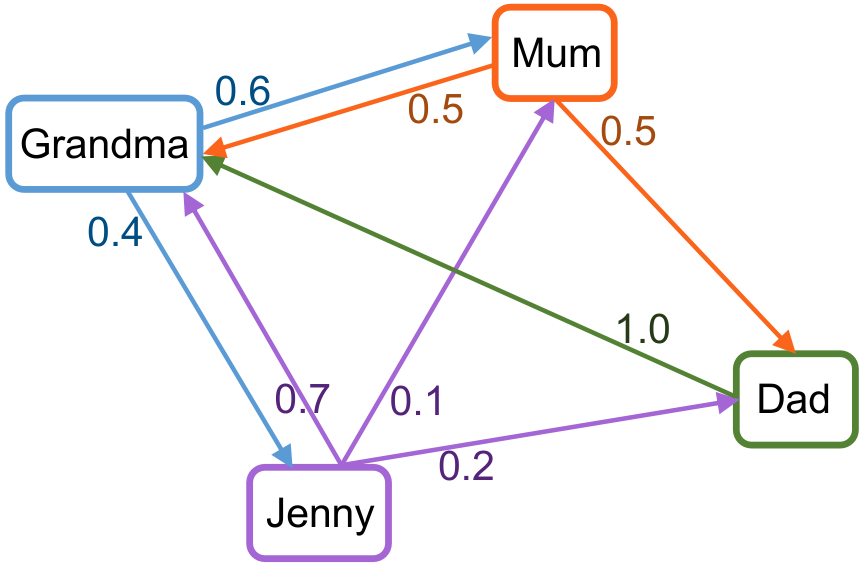
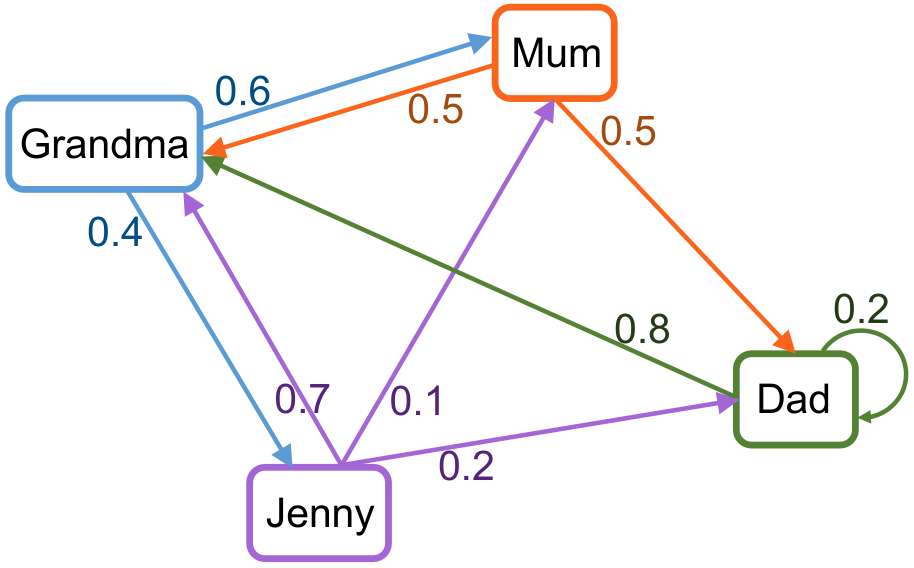
bakery example

Changed region(s): [[0.0, 0.0, 1.0, 0.9877], [0.7833, 0.4489, 0.8737, 0.5687], [0.0, 0.2993, 0.0301, 0.3292]]

diff --git a/docs/posts/202505_hidden_markov/index.html b/docs/posts/202505_hidden_markov/index.html
@@ -181,10 +181,21 @@ window.Quarto = {
 <p>Let’s use a simple example to make these abstract descriptions to life.</p>
 <p>Suppose that there is a family bakery in your neighborhood. Each day you pass by the bakery and on some days, the bakery sells delicious special cookies. Since you absolutely don’t want to miss these treats, you take notes everyday about whether the cookies are being sold on that day.</p>
 <p>Therefore, you have from day 1 to day <span class="math inline">\(\tau\)</span> a series of numbers: <span class="math display">\[0, 1, 0, 0, 1, 1, ..., 0\]</span>, where <span class="math inline">\(0\)</span> means the corresponding day there was no cookie and <span class="math inline">\(1\)</span> means the there were cookies sold.</p>
-<p>Let’s denote the value in this series on day <span class="math inline">\(t\)</span> as <span class="math inline">\(X_t\)</span>. Hence, <span class="math inline">\(X_t\)</span> is our observation on day <span class="math inline">\(t\)</span>.</p>
-<p>But what determines whether cookies is sold? This is hidden behind the counter for a cookie-loving customer. Apparently, the family who runs the bakery take turns to bake on each day. The family member do the baking is determined by the following graph: Who bakes today is determined by a transition graph:</p>
-<p>Insert a png <img src="./images/family_graph.png" class="img-fluid" alt="Graph for transition of baking position"></p>
-<p>The nodes in the graph represent each family member. The weights on the edges represent the possibility of transition from one person to another. For example</p>
+<p>Let’s denote the value in this series on day <span class="math inline">\(t\)</span> as <span class="math inline">\(X_t\)</span>. Hence, <span class="math inline">\(X_t\)</span> is our <strong>observation</strong> on day <span class="math inline">\(t\)</span>.</p>
+<p>But what determines whether cookies is sold? This is hidden behind the counter for a cookie-loving customer. Apparently, the family in the bakery take turns to be the chief baker on each day.</p>
+<p>The family members include Jenny, her grandma, her mom and her dad. Whoever was the chief baker the day before decides who takes the chief position the current day.</p>
+<p>The rule of transition is determined by the following graph:</p>
+<div class="cell">
+<div class="quarto-figure quarto-figure-center">
+<figure class="figure">
+<p><img src="./images/family_graph.png" class="img-fluid figure-img" style="width:60.0%"></p>
+<figcaption>Graph for transition of baking position</figcaption>
+</figure>
+</div>
+</div>
+<p>The nodes in the graph represent each family member. The weights on the edges represent the possibility of transition from one person to another. For example, if Grandma was the chief baker on day <span class="math inline">\(t-1\)</span>, then on day <span class="math inline">\(t\)</span>, there will be 0.6 chance that Mum is the chief baker and 0.4 chance Jenney will be the chief baker.</p>
+<p>With this rule, it is possible to have a sequence of the chief bakers from day 1 to day <span class="math inline">\(\tau\)</span> as follows: <span class="math display">\[Mum, Grandma, Jenny, Dad, Dad, Grandma, ..., Jenny\]</span>. Let’s denote the chief baker on day <span class="math inline">\(t\)</span> as <span class="math inline">\(S_t\)</span>. We can call <span class="math inline">\(S_t\)</span> the <strong>hidden state</strong> of the bakery on day <span class="math inline">\(t\)</span>.</p>
+<p>Now we modeled how the hidden state transitions as a Markov chain. The last thing we need is to model how the hidden state <span class="math inline">\(S_t\)</span>, i.e.&nbsp;the chief baker, decides on the observable <span class="math inline">\(X_t\)</span>, i.e.&nbsp;whether there will be cookies baked.</p>
 
 
 

diff --git a/docs/posts/index.html b/docs/posts/index.html
@@ -200,10 +200,10 @@ window.Quarto = {
 
 <div class="quarto-listing quarto-listing-container-default" id="listing-listing">
 <div class="list quarto-listing-default">
-<div class="quarto-post image-right" data-index="0" data-categories="bW9kZWxpbmc=" data-listing-date-sort="1747519200000" data-listing-file-modified-sort="1748198015374" data-listing-date-modified-sort="NaN" data-listing-reading-time-sort="3" data-listing-word-count-sort="409">
+<div class="quarto-post image-right" data-index="0" data-categories="bW9kZWxpbmc=" data-listing-date-sort="1747519200000" data-listing-file-modified-sort="1748199126897" data-listing-date-modified-sort="NaN" data-listing-reading-time-sort="3" data-listing-word-count-sort="412">
 <div class="thumbnail"><a href="../posts/202505_hidden_markov/index.html" class="no-external">
 
-<p class="card-img-top"><img src="202505_hidden_markov/images/family_graph.png" alt="Graph for transition of baking position"  class="thumbnail-image card-img"/></p>
+<p class="card-img-top"><img src="202505_hidden_markov/images/family_graph.png"  class="thumbnail-image card-img"/></p>
 
 </a></div>
 <div class="body">
@@ -216,28 +216,6 @@ jupyter: python3
 </div>
 <div class="metadata">
 <a href="../posts/202505_hidden_markov/index.html" class="no-external">
-<div class="listing-date">
-May 18, 2025
-</div>
-</a>
-</div>
-</div>
-<div class="quarto-post image-right" data-index="1" data-categories="bW9kZWxpbmc=" data-listing-date-sort="1747519200000" data-listing-file-modified-sort="1747834838432" data-listing-date-modified-sort="NaN" data-listing-reading-time-sort="4" data-listing-word-count-sort="711">
-<div class="thumbnail"><a href="../posts/drafts/202505_manifold_as_model/index.html" class="no-external">
-
-<div class="listing-item-img-placeholder card-img-top" >&nbsp;</div>
-
-</a></div>
-<div class="body">
-<h3 class="no-anchor listing-title">
-<a href="../posts/drafts/202505_manifold_as_model/index.html" class="no-external">Neural manifold beyond a data analysis tool</a>
-</h3>
-<div class="delink listing-description"><a href="../posts/drafts/202505_manifold_as_model/index.html" class="no-external">
-The concept of neural manifold has been introduced for analysis of large scale recordings of neuronal activities in the brain. In short, neural manifold is a low-dimensional…
-</a></div>
-</div>
-<div class="metadata">
-<a href="../posts/drafts/202505_manifold_as_model/index.html" class="no-external">
 <div class="listing-date">
 May 18, 2025
 </div>
